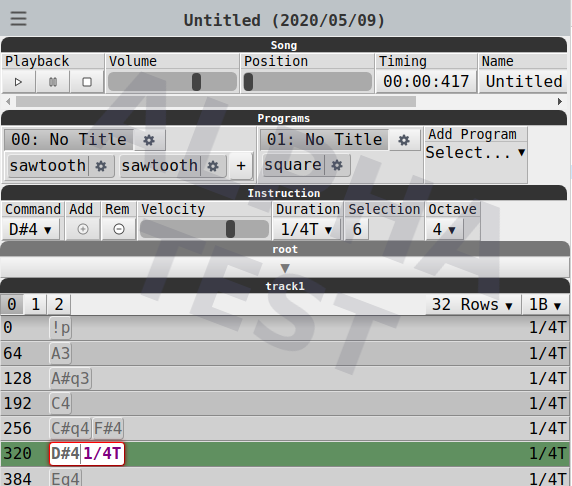
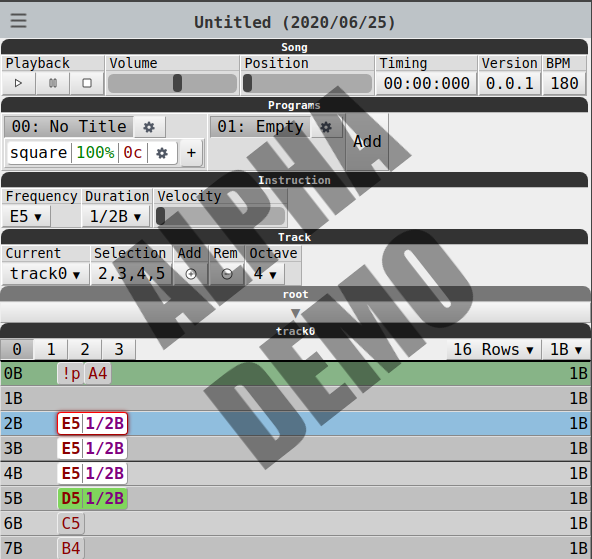
markdown and bug fixes

diff --git a/site/AboutPage.js b/site/AboutPage.js
@@ -1,55 +1,30 @@
 import * as React from "react";
-import {HTML} from "./component";
+import {HTML, Markdown} from "./component";
 
 import PageContainer from "./theme/PageContainer";
 
+import PATH_README from '../README.md'
+console.log('README_MD', PATH_README, typeof PATH_README);
 export default class AboutPage extends React.Component {
+    constructor(props) {
+        super(props);
+        this.state = {
+            readme: null
+        }
+    }
+
+    componentWillMount() {
+        fetch(PATH_README).then((response) => response.text()).then((content) => {
+            this.setState({ readme: content })
+        })
+    }
+
     render() {
         return (
             <PageContainer currentPath={this.props.location.pathname}>
-                <HTML.Header>About Audio Source</HTML.Header>
-                <HTML.P>
-                    The main goal of the AudioSource project is to provide an easy all-platform music composer pre-loaded with as many free sample libraries we can compile.{'\n'}
-                    This allows aficionados of all music to not only listen, but explore the 'source' of the music they love, and hopefully be inspired to write music of their own.{'\n'}
-
-                    Open-Source means the AudioSource project is free forever, and anyone can join in the development,{'\n'}
-                    so we're always looking for testers, artists, and all kinds of musician to {'\n'}
-                    <HTML.A href="https://github.com/clevertree/audio-source-composer/issues/4">contribute</HTML.A>.
-
-                    Additionally the AudioSource website will allow user submissions of composed songs, much like other music sites offer.{'\n'}
-                    The main difference is that songs written in Audio Source Composer will allow users to not only render the song, but view it's source.{'\n'}
-                </HTML.P>
-                <HTML.P>
-                    Currently the composer is in{'\n'}
-                    <HTML.A href="https://github.com/clevertree/audio-source-composer">active development</HTML.A>{'\n'}
-                    and has not yet been released.{'\n'}
-                    Check back often for updates as we get closer to Beta!{'\n'}
-                </HTML.P>
-
-                <HTML.Header>Features</HTML.Header>
-                <HTML.P>
-                    Audio Source Composer works on any modern browser on any phone, tablet or pc.
-                    Instruments and Effects can be wrapped in each other to build complex presets.
-                    Note tracks can be called recursively for a highly structured song.
-                </HTML.P>
-
-
-
-                <HTML.Header>What's currently working</HTML.Header>
-                <HTML.P>
-                    Add, edit, and delete notes and note tracks.
-                    Recursively play back tracks by adding a 'Track Note'.
-                    Edit note velocity and duration.
-                </HTML.P>
-
-
-
-                <HTML.Header>Under the Hood: WebAudio API</HTML.Header>
-                <HTML.P>
-                    Audio Source brings the WebAudio API to mobile by using a WebView as a proxy.
-                    Songs, instruments, and samples written for Audio Source will work on any platform.
-                    Instruments render using React VirtualDOM on the UI thread while rendering audio in the WebView proxy.
-                </HTML.P>
+                <Markdown>
+                    {this.state.readme || "Loading Readme..."}
+                </Markdown>
             </PageContainer>
         );
     }

diff --git a/song/values/SongValues.js b/song/values/SongValues.js
@@ -2,7 +2,6 @@ import Values from "../../common/values/Values";
 import {ASUIMenuAction, ASUIMenuBreak, ASUIMenuDropDown} from "../../components/menu";
 import React from "react";
 import {ArgType} from "../../common";
-import InstructionProcessor from "../../common/program/InstructionProcessor";
 
 class SongValues extends Values {
     constructor(song) {
@@ -132,8 +131,8 @@ class SongValues extends Values {
 
 
     renderMenuEditInstructionArgOptions(instructionData, argType, argIndex, paramValue, onSelectValue) {
-        const processor = new InstructionProcessor(instructionData);
-        const [commandString] = processor.processInstructionArgs();
+        // const processor = new InstructionProcessor(instructionData);
+        // const [commandString] = processor.processInstructionArgs();
         // console.log('commandString', commandString);
         switch(argType) {
             // case ArgType.trackCommand:

diff --git a/site/ContactPage.js b/site/ContactPage.js
@@ -15,13 +15,18 @@ export default class ContactPage extends React.Component {
                 </HTML.P>
 
                 <HTML.P>
-                    Right now the project is just me. If you want to join up, please contact me on my{'\n'}
+                    Currently the composer is in{'\n'}
+                    <HTML.A href="https://github.com/clevertree/audio-source-composer">active development</HTML.A>{'\n'}
+                    and has not yet been released.{'\n'}
+                    Check back often for updates as we get closer to Beta!{'\n'}
+                    If you want to join up, please contact us on the {'\n'}
                     <HTML.A href="https://github.com/clevertree">GitHub page</HTML.A>.
                 </HTML.P>
 
                 <HTML.P>
                     More to come...
                 </HTML.P>
+
             </PageContainer>
         );
     }

diff --git a/song/Song.js b/song/Song.js
@@ -620,17 +620,18 @@ class Song {
 
     programRemove(programID) {
         const programList = this.data.programs;
-        if (!programList[programID])
-            return console.error("Invalid programs ID: " + programID);
+        if (typeof programList[programID] === "undefined")
+            return console.error("Invalid program ID: " + programID);
         const isLastProgram = programID === programList.length - 1;
 
         const oldConfig = programList[programID];
         if(isLastProgram) {
-            delete programList[programID];
+            programList.splice(programID, 1);
         } else {
             programList[programID] = null;
         }
         // this.programUnload(programID);
+        // console.log('programRemove', programID, this.getProxiedData().programs)
         return oldConfig;
     }
 

diff --git a/site/IndexRouter.js b/site/IndexRouter.js
@@ -8,12 +8,11 @@ import {
 import {ASPlayer} from '../player';
 import {ASComposer} from "../composer/";
 import SongProxyWebViewClient from "../song/proxy/SongProxyWebViewClient";
-import HomePage from "../site/HomePage";
-import DownloadsPage from "../site/DownloadsPage";
-import AboutPage from "../site/AboutPage";
-import ComposerPage from "../site/ComposerPage";
-import ContactPage from "../site/ContactPage";
-// import MenuOverlayContainer from "../components/menu/MenuOverlayContainer";
+import HomePage from "./HomePage";
+import DownloadsPage from "./DownloadsPage";
+import AboutPage from "./AboutPage";
+import ComposerPage from "./ComposerPage";
+import ContactPage from "./ContactPage";
 
 
 export default class IndexRouter extends React.Component {

diff --git a/composer/ASComposerMenu.js b/composer/ASComposerMenu.js
@@ -3,7 +3,6 @@ import {ASUIMenuItem, ASUIMenuAction, ASUIMenuDropDown, ASUIMenuBreak} from "../
 import {Storage, ProgramLoader} from "../song";
 import ASComposerRenderer from "./ASComposerRenderer";
 import InstructionProcessor from "../common/program/InstructionProcessor";
-import {ArgType} from "../common";
 
 class ASComposerMenu extends ASComposerRenderer {
 
@@ -227,6 +226,7 @@ class ASComposerMenu extends ASComposerRenderer {
 
         const instructionData = this.state.selectedInstructionData;
         const processor = new InstructionProcessor(instructionData);
+        // eslint-disable-next-line no-unused-vars
         const [commandString, argTypeList] = processor.processInstructionArgs();
 
         let argIndex = 0;

diff --git a/song/track/TrackIterator.js b/song/track/TrackIterator.js
@@ -240,8 +240,8 @@ export default class TrackIterator {
                 finished = false;
             } else {
                 // TODO: update parent stats with end position?
-                const endPositionSeconds = stats.startPosition + stats.endPositionSeconds;
-                console.log("Track ends: ", i, stats.trackName, "in", endPositionSeconds);
+                // const endPositionSeconds = stats.startPosition + stats.endPositionSeconds;
+                // console.log("Track ends: ", i, stats.trackName, "in", endPositionSeconds);
             }
         }
         return finished;

diff --git a/composer/program/ASCProgramRenderer.js b/composer/program/ASCProgramRenderer.js
@@ -18,7 +18,7 @@ export default class ASCProgramRenderer extends ASCProgramRendererBase {
         // let contentClass = 'error';
         let titleHTML = '', renderProgram = false;
         if (song.hasProgram(programID)) {
-            const programConfig = song.programGetData(programID);
+            const [, programConfig] = song.programGetData(programID);
             titleHTML = programConfig.title || "No Title"
             renderProgram = true;
         } else {

diff --git a/composer/panel/ASComposerSongPanel.js b/composer/panel/ASComposerSongPanel.js
@@ -10,7 +10,7 @@ export default class ASComposerSongPanel extends React.Component {
         const state = composer.state;
         const songStats = composer.songStats;
         return (
-            <ASUIPanel className="song" header="Song">
+            <ASUIPanel className="song" header="Song Information">
                 <ASUIForm className="playback" header="Playback">
                     <ASUIButton
                         className="song-play"

diff --git a/composer/panel/ASComposerProgramPanel.js b/composer/panel/ASComposerProgramPanel.js
@@ -9,7 +9,7 @@ export default class ASComposerProgramPanel extends React.Component {
         return (
             <ASUIPanel
                 className="programs"
-                header="Programs">
+                header="Programs (Instruments & Effects)">
                {composer.getSong().programEach((programID, programClass, programConfig) =>
                    <ASCProgramRenderer
                        key={programID}

diff --git a/composer/panel/ASComposerTrackPanel.js b/composer/panel/ASComposerTrackPanel.js
@@ -34,7 +34,7 @@ export default class ASComposerTrackPanel extends React.Component {
         return (
             <ASUIPanel
                 className="track"
-                header={`Track`}>
+                header={`Selected Track`}>
                 <ASUIForm className="track-name" header="Current">
                     <ASUIButtonDropDown
                         // className="track-selection"

diff --git a/site/ComposerPage.js b/site/ComposerPage.js
@@ -12,7 +12,7 @@ export default class AboutPage extends React.Component {
 
                 <HTML.Header>Audio Source Composer Demo</HTML.Header>
                 <HTML.P>
-                    Tips #1: Menu->View->Fullscreen to render in full screen.
+                    Tips #1: Menu->View->Enable Fullscreen to render in landscape mode.
                 </HTML.P>
 
                 <HTML.P>
